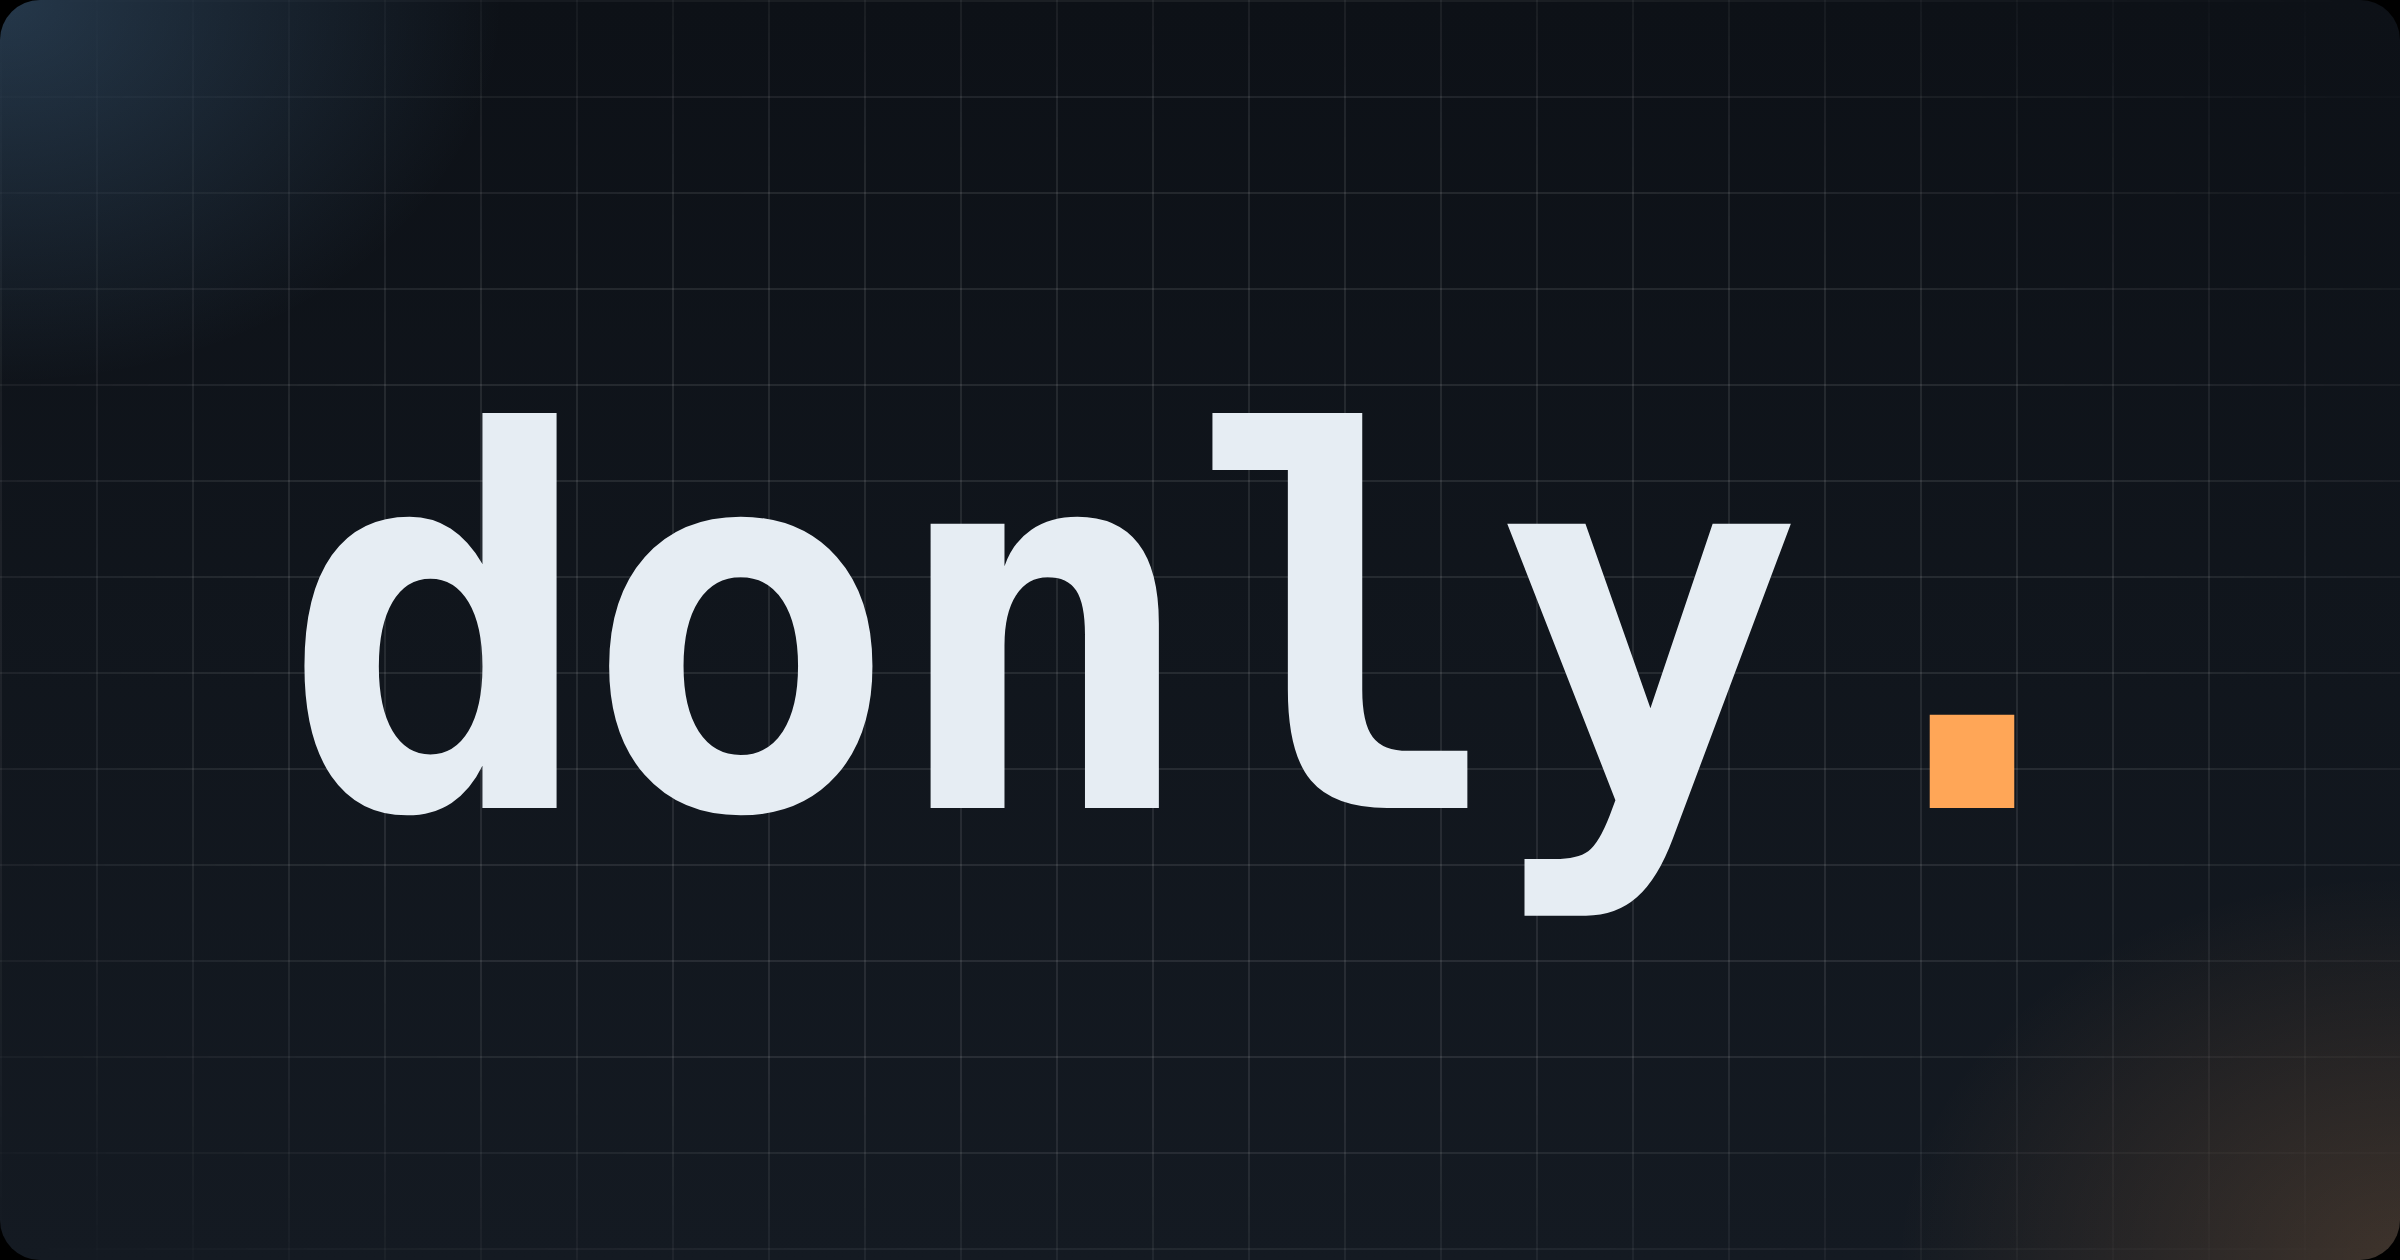
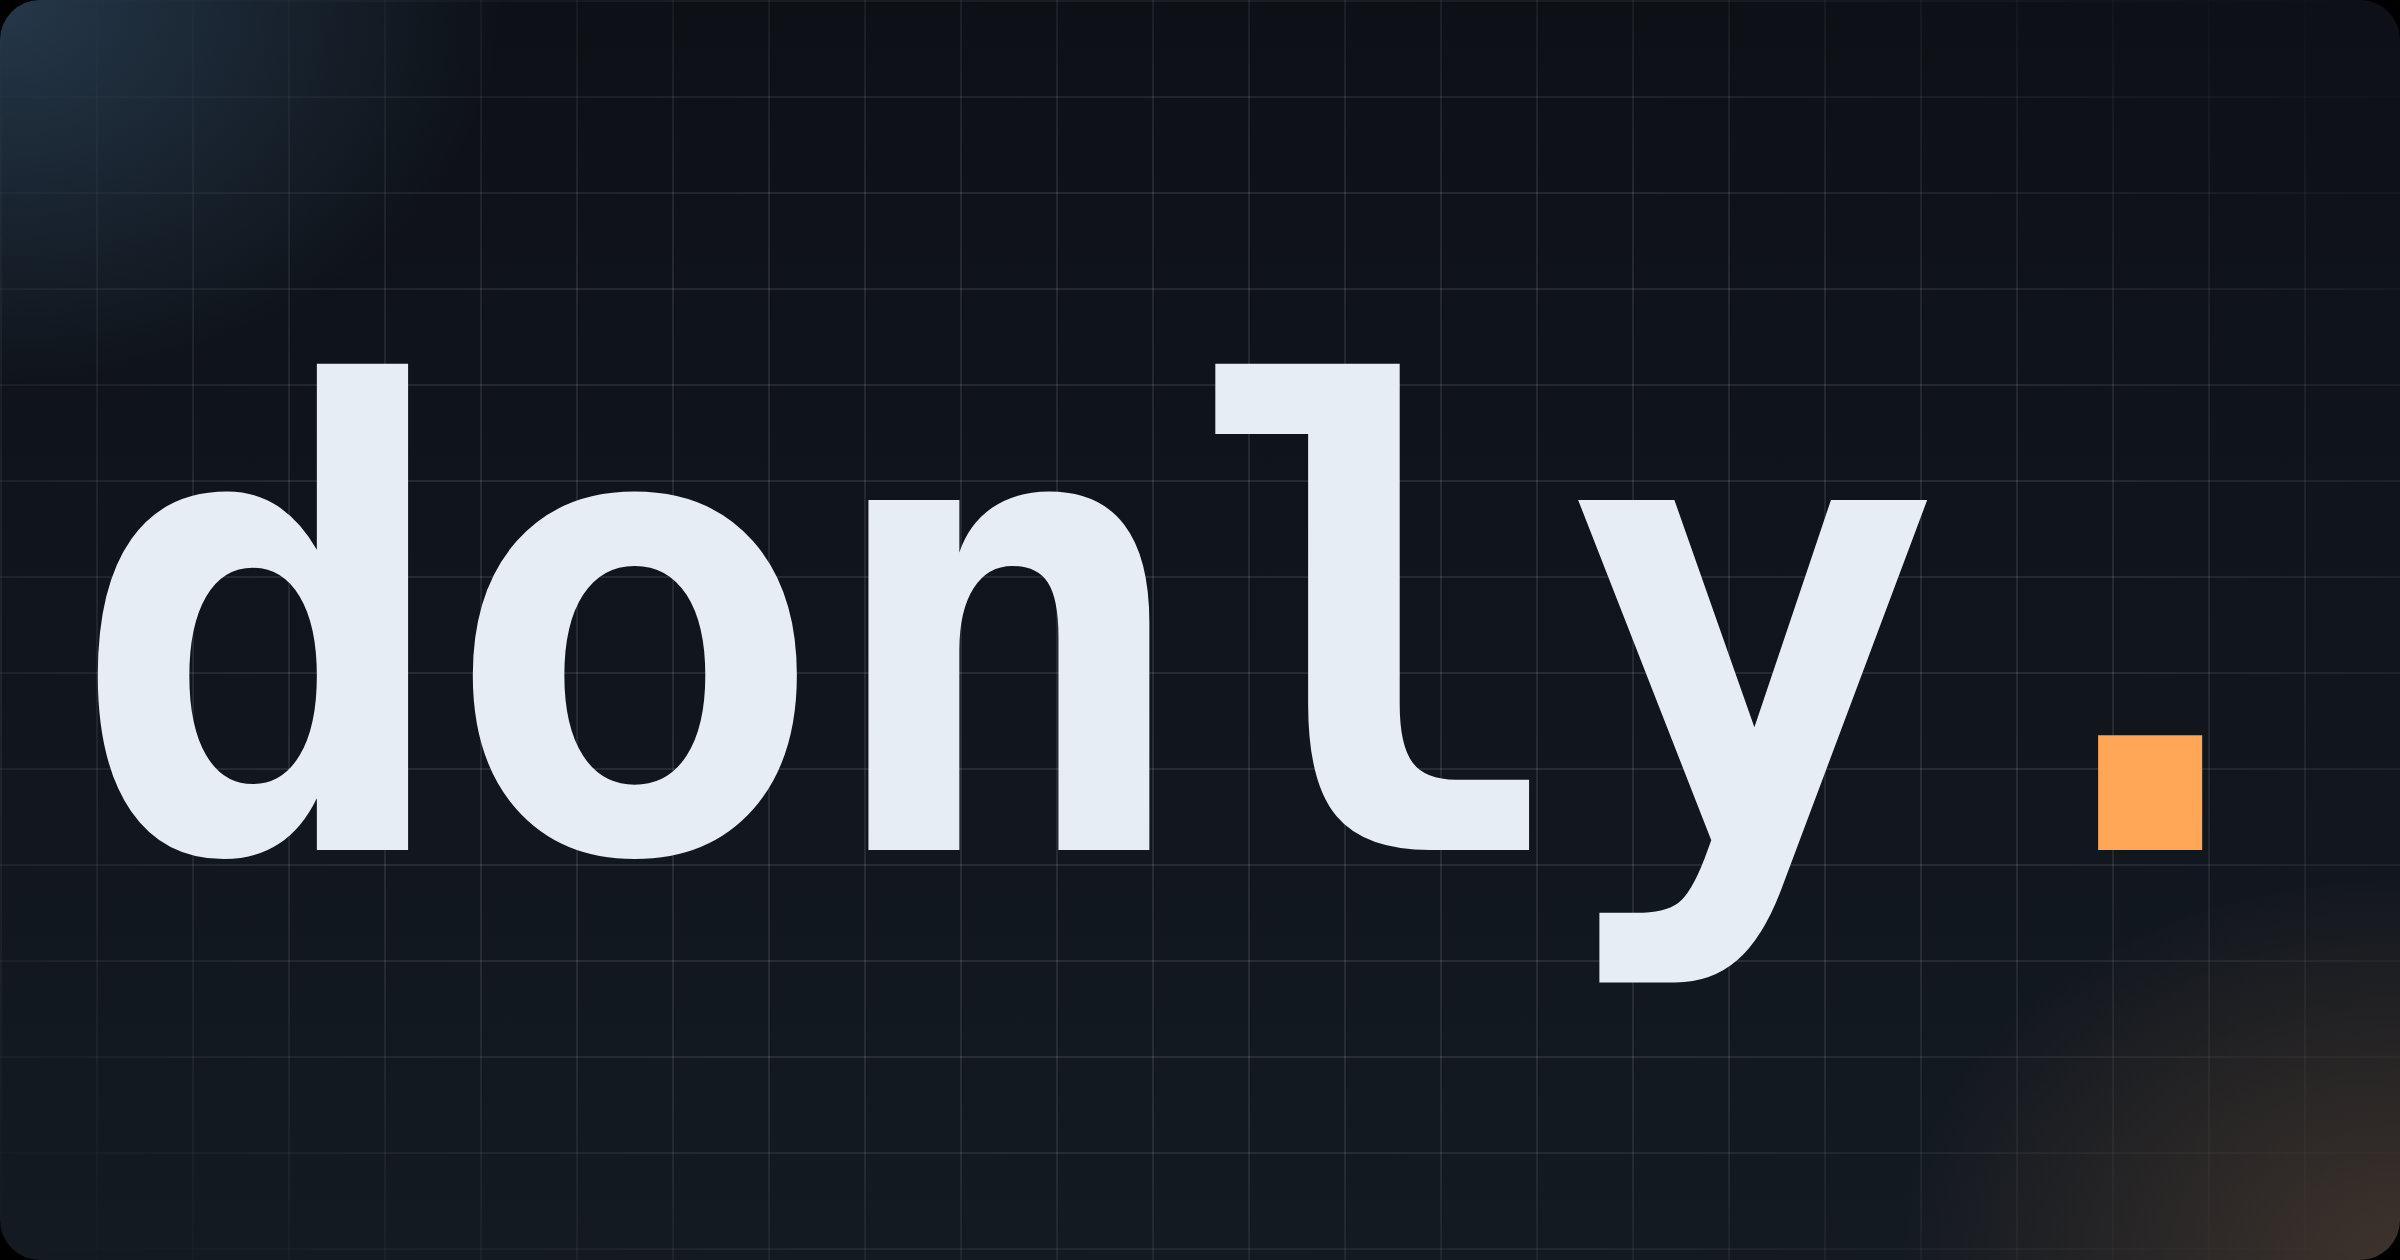
Reduce variant 00 margin to 2%
Lowering .cover padding from 5% to 2% alone had no visible effect —
the wordmark's own clamp() max (260px) was the actual limiting
factor, well short of even the 5% padding boundary. Bumped the
wordmark size to clamp(64px, 30vw, 320px) so it now fills ~94% of the
cover width, matching a real 2% margin. Updated BRAND.md to match.

Claude-Session: https://claude.ai/code/session_01XwWKtRz3xN6gb9Ws9Yu3dT

Changed region(s): [[0.0312, 0.2786, 0.5, 0.681], [0.5, 0.2786, 0.8438, 0.8048], [0.875, 0.5571, 0.9375, 0.681]]

diff --git a/assets/brand/variant/00/cover.html b/assets/brand/variant/00/cover.html
@@ -73,7 +73,7 @@
         display: flex;
         align-items: center;
         justify-content: center;
-        padding: 5%;
+        padding: 2%;
       }
 
       .cover::before {
@@ -124,7 +124,7 @@
           "JetBrains Mono", ui-monospace, SFMono-Regular, Menlo, monospace;
         font-weight: 800;
         letter-spacing: -0.02em;
-        font-size: clamp(64px, 24vw, 260px);
+        font-size: clamp(64px, 30vw, 320px);
         line-height: 1;
         color: var(--text);
         user-select: none;

diff --git a/assets/brand/BRAND.md b/assets/brand/BRAND.md
@@ -24,7 +24,7 @@
 
 - Lienzo base: 1200×630 px (formato estándar cover / social/og-image)
 - Responsive: escala manteniendo aspect-ratio 1200/630 a cualquier ancho
-- Tamaño del wordmark: `clamp(64px, 24vw, 260px)` — fluido entre mobile y desktop, ocupando la mayor parte del ancho del cover
+- Tamaño del wordmark: `clamp(64px, 30vw, 320px)` — fluido entre mobile y desktop, ocupando ~94% del ancho del cover (margen interno de 2%)
 
 **Colores**
 
